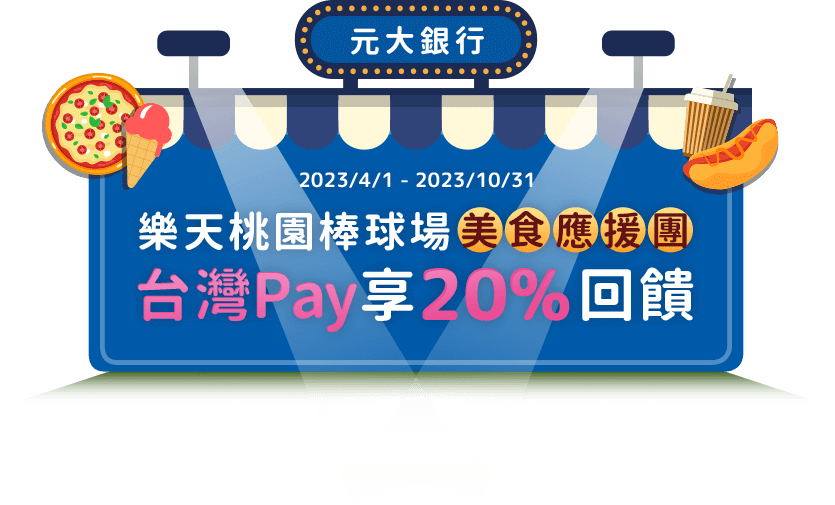
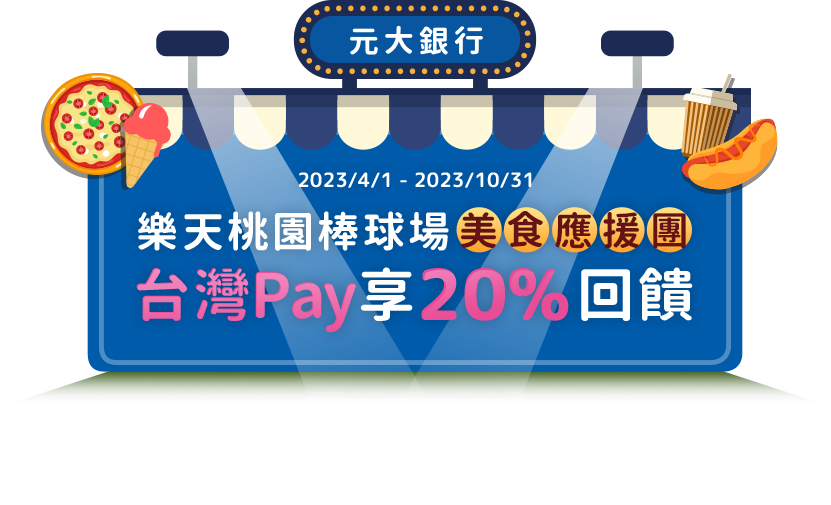
33

diff --git a/rakutenmonkeys/assets/css/main.css b/rakutenmonkeys/assets/css/main.css
@@ -11,7 +11,7 @@ img{margin: 0; padding: 0; display: block;}
 /* kv */
 .kv_container{width: 100%; margin: 0 auto; background: url("../images/kv_bg.jpg") center top no-repeat; background-size: cover;}
 .kv{width: 100%; max-width: 1400px; height: 750px; margin: 0 auto; position: relative;}
-.kv .title{width: 58%; margin: 0 auto; padding-top: 2.2%; opacity: 0; -webkit-animation: opacity .6s .3s ease-in-out forwards; animation: opacity .6s .3s ease-in-out forwards;}
+.kv .title{width: 60%; margin: 0 auto; padding-top: 1.5%; opacity: 0; -webkit-animation: opacity .6s .3s ease-in-out forwards; animation: opacity .6s .3s ease-in-out forwards;}
 .kv .payji{width: 27%; height: 0; padding-bottom: 18%; background: url("../images/payji1.png") left top no-repeat; background-size: 100% auto; position: absolute; left: 12%; top: 44%; 
 animation: payji 1.5s ease-in infinite backwards; -webkit-animation: payji 1.5s ease-in infinite backwards; transform-origin: center bottom;}
 .kv .monkey{width: 24%; height: 0; padding-bottom: 21%; background: url("../images/monkey1.png") left top no-repeat; background-size: 100% auto; position: absolute; right: 15%; top: 40%;
